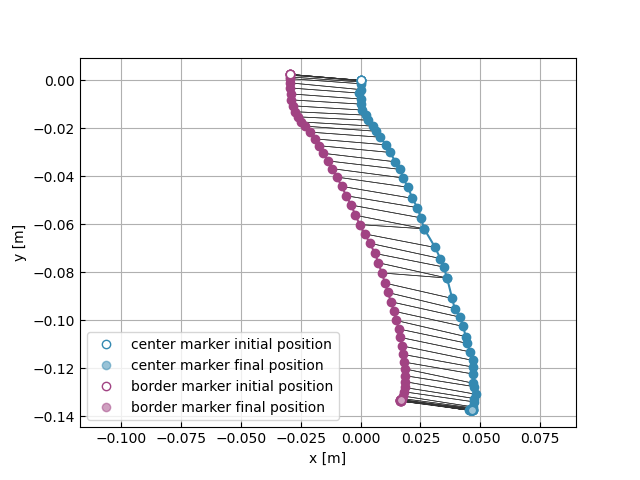
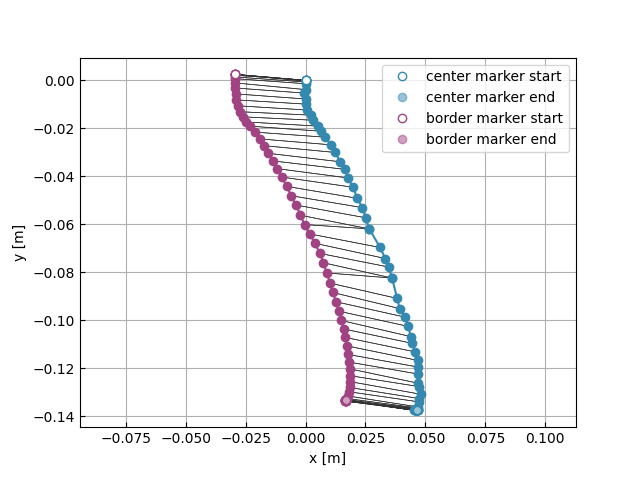
Change plot trajetory leyend
Now it's shown "traj start/end" instead of "traj initial/final
position".

Changed region(s): [[0.1562, 0.125, 0.875, 0.9375], [0.8125, 0.875, 0.875, 0.9375], [0.7188, 0.875, 0.7812, 0.9375]]

diff --git a/yupi/graphics/_stats_plots.py b/yupi/graphics/_stats_plots.py
@@ -64,18 +64,18 @@ def plot_hists(
 
         If given, the length must be the same as the length of
         ``values``.
-
     """
 
     if kwargs_list and len(kwargs_list) != len(values_list):
         raise ValueError(
-            "The length of 'kwargs_list' must be equals the " "length of 'values_list'"
+            "The length of 'kwargs_list' must be equals the length of 'values_list'"
         )
 
     kwargs_list = [{}] * len(values_list)
 
     cycle = itertools.cycle(YUPI_COLORS)
-    colors = [cycle.__next__() for _ in values_list]
+    colors = [next(cycle) for _ in values_list]
+    ax = plt.gca()
 
     for i, vals in enumerate(values_list):
         kwargs = kwargs_list[i]
@@ -93,6 +93,8 @@ def plot_hists(
         if filled:
             kwargs.pop("label", None)
             plt.hist(vals, histtype="stepfilled", color=color, alpha=alpha, **kwargs)
+
+    return ax
 
 
 def plot_speed_hist(v, show: bool = True, units: str = "m/s", **kwargs):
@@ -120,10 +122,13 @@ def plot_speed_hist(v, show: bool = True, units: str = "m/s", **kwargs):
     plt.xlabel(f"speed{units}")
     plt.ylabel("pdf")
     plt.grid()
-    plt.gca().set_axisbelow(True)
+    ax = plt.gca()
+    ax.set_axisbelow(True)
 
     if show:
         plt.show()
+
+    return ax
 
 
 def plot_angles_hist(ang, bins, show: bool = True, ax=None, **kwargs):
@@ -154,6 +159,8 @@ def plot_angles_hist(ang, bins, show: bool = True, ax=None, **kwargs):
     plt.xlabel("turning angles pdf")
     if show:
         plt.show()
+
+    return ax
 
 
 def plot_msd(
@@ -196,6 +203,7 @@ def plot_msd(
     plt.plot(lag_t_msd, msd, ".", **default_kwargs)
     upper_bound = msd + msd_std
     lower_bound = msd - msd_std
+    ax = plt.gca()
     plt.fill_between(lag_t_msd, upper_bound, lower_bound, color=fill_color)
     plt.xscale("log")
     plt.yscale("log")
@@ -205,12 +213,14 @@ def plot_msd(
     if show:
         plt.show()
 
+    return ax
+
 
 def plot_kurtosis(
     kurtosis,
     dt=None,
     t_array=None,
-    kurtosis_ref: float = None,
+    kurtosis_ref: Optional[float] = None,
     units: str = "s",
     show=True,
     ref_color=LIGHT_GREEN,
@@ -244,6 +254,7 @@ def plot_kurtosis(
         t_array = np.linspace(0, dt * len(kurtosis), len(kurtosis))
     if t_array is not None:
         plt.plot(t_array, kurtosis, **kwargs)
+        ax = plt.gca()
 
         if kurtosis_ref is not None:
             bound_1 = kurtosis
@@ -252,11 +263,14 @@ def plot_kurtosis(
         plt.xlabel(f"time{units}")
     else:
         plt.plot(kurtosis, **kwargs)
+        ax = plt.gca()
 
     plt.ylabel("kurtosis")
     plt.grid()
     if show:
         plt.show()
+
+    return ax
 
 
 def plot_vacf(
@@ -312,6 +326,8 @@ def plot_vacf(
     if show:
         plt.show()
 
+    return ax
+
 
 def plot_psd(psd_mean, frec, psd_std=None, omega=True, show=True, **kwargs):
     """Plot the Power Spectral Density.
@@ -333,6 +349,7 @@ def plot_psd(psd_mean, frec, psd_std=None, omega=True, show=True, **kwargs):
     """
 
     plt.plot(frec, psd_mean, label="psd", **kwargs)
+    ax = plt.gca()
     if psd_std is not None:
         plt.fill_between(
             frec, psd_mean - psd_std, psd_mean + psd_std, alpha=0.3, label="psd_std"
@@ -346,3 +363,5 @@ def plot_psd(psd_mean, frec, psd_std=None, omega=True, show=True, **kwargs):
     plt.legend()
     if show:
         plt.show()
+
+    return ax

diff --git a/yupi/graphics/_trajs_plots.py b/yupi/graphics/_trajs_plots.py
@@ -62,9 +62,9 @@ def plot_2d(
         trajs = [trajs]
 
     units = "" if units is None else f" [{units}]"
-
     cycle = itertools.cycle(YUPI_COLORS)
-    colors = [cycle.__next__() for _ in trajs]
+    colors = [next(cycle) for _ in trajs]
+    ax = plt.gca()
 
     if color is not None:
         if isinstance(color, (str, tuple)):
@@ -113,7 +113,7 @@ def plot_2d(
             "o",
             mfc="white",
             zorder=2,
-            label=f"{traj_id} initial position",
+            label=f"{traj_id} start",
             color=color,
         )
         plt.plot(x_data[-1], y_data[-1], "o", mfc="white", zorder=2, color=color)
@@ -122,7 +122,7 @@ def plot_2d(
             y_data[-1],
             "o",
             alpha=0.5,
-            label=f"{traj_id} final position",
+            label=f"{traj_id} end",
             color=color,
         )
 
@@ -138,6 +138,8 @@ def plot_2d(
 
     if show:
         plt.show()
+
+    return ax
 
 
 def plot_2D(  # pylint: disable=invalid-name
@@ -258,7 +260,7 @@ def plot_3d(
     units = "" if units is None else f" [{units}]"
 
     cycle = itertools.cycle(YUPI_COLORS)
-    colors = [cycle.__next__() for _ in trajs]
+    colors = [next(cycle) for _ in trajs]
 
     if color is not None:
         if isinstance(color, (str, tuple)):
@@ -312,7 +314,7 @@ def plot_3d(
             z_data[0],
             "o",
             mfc="white",
-            label=f"{traj_id} initial position",
+            label=f"{traj_id} start",
             color=color,
         )
 
@@ -323,7 +325,7 @@ def plot_3d(
             z_data[-1],
             "o",
             alpha=0.5,
-            label=f"{traj_id} final position",
+            label=f"{traj_id} end",
             color=color,
         )
 
@@ -339,6 +341,8 @@ def plot_3d(
 
     if show:
         plt.show()
+
+    return ax
 
 
 def plot_3D(  # pylint: disable=invalid-name

diff --git a/docs/source/examples/example3.rst b/docs/source/examples/example3.rst
@@ -54,6 +54,7 @@ Import all the dependencies:
 .. code-block:: python
 
    import cv2
+   import matplotlib.pyplot as plt
    from yupi.tracking import ROI, ObjectTracker, TrackingScenario
    from yupi.tracking import ColorMatching, TemplateMatching
    from yupi.graphics import plot_2d
@@ -125,20 +126,27 @@ Next, we can estimate the trajectory of the LED referred to the center pivot:
 
 .. code-block:: python
 
-   center, led = tl
-   led_centered = led - center
-   led_centered.traj_id= 'led'
+    center, led = tl
+    center_pos = center.r[0]
+    led_centered = led - center_pos
+    center -= center_pos
+    led_centered.traj_id = 'led'
 
 Since the led and the center of the wheel are placed at a constant distance of
-0.039 m, we can estimate the trajectory of the wheel referred to the center
+0.019 m, we can estimate the trajectory of the wheel referred to the center
 pivot:
 
 .. code-block:: python
 
-   wheel_centered = led_centered.copy()
-   wheel_centered.add_polar_offset(0.039, 0)
-   wheel_centered.traj_id = 'wheel'
-   plot_2d([wheel_centered, led_centered])
+    wheel_centered = led_centered.copy()
+    wheel_centered.add_polar_offset(0.019, 0)
+    wheel_centered.traj_id = 'wheel'
+
+    # Plot the trajectories
+    plot_2D([wheel_centered, led_centered], show=False, color=["#4499bb", "#44bb44"])
+    plt.plot([center.r.x[0]], [center.r.y[0]], 'o', color="#bb4444", label="center")
+    plt.legend()
+    plt.show()
 
 
 .. figure:: /images/polar_offset.png
@@ -184,7 +192,6 @@ The temporal evolution of the efficiency can be plotted by:
 
 .. code-block:: python
 
-   import matplotlib.pyplot as plt
    plt.plot(wheel.t, eff)
    plt.xlabel('time [s]')
    plt.ylabel('efficiency')

diff --git a/docs/source/examples/example2.rst b/docs/source/examples/example2.rst
@@ -105,10 +105,10 @@ Then, we can plot the results:
    :align: center
 
    
-.. _References 6:
+.. _References 2:
 
-5. References 2
----------------
+5. References
+-------------
 
 | [1] Chechkin, Aleksei V., et al. "Brownian yet non-Gaussian diffusion: from superstatistics to subordination of diffusing diffusivities." Physical Review X 7.2 (2017): 021002.
 | [2] Thapa, Samudrajit, et al. "Bayesian analysis of single-particle tracking data using the nested-sampling algorithm: maximum-likelihood model selection applied to stochastic-diffusivity data." Physical Chemistry Chemical Physics 20.46 (2018): 29018-29037.
